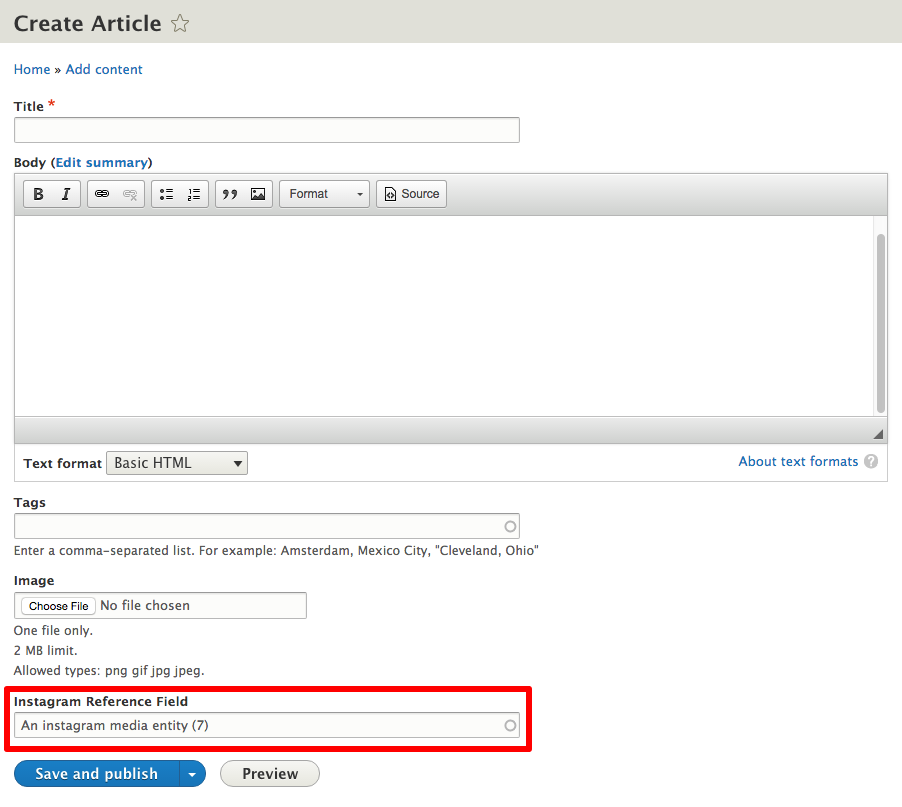
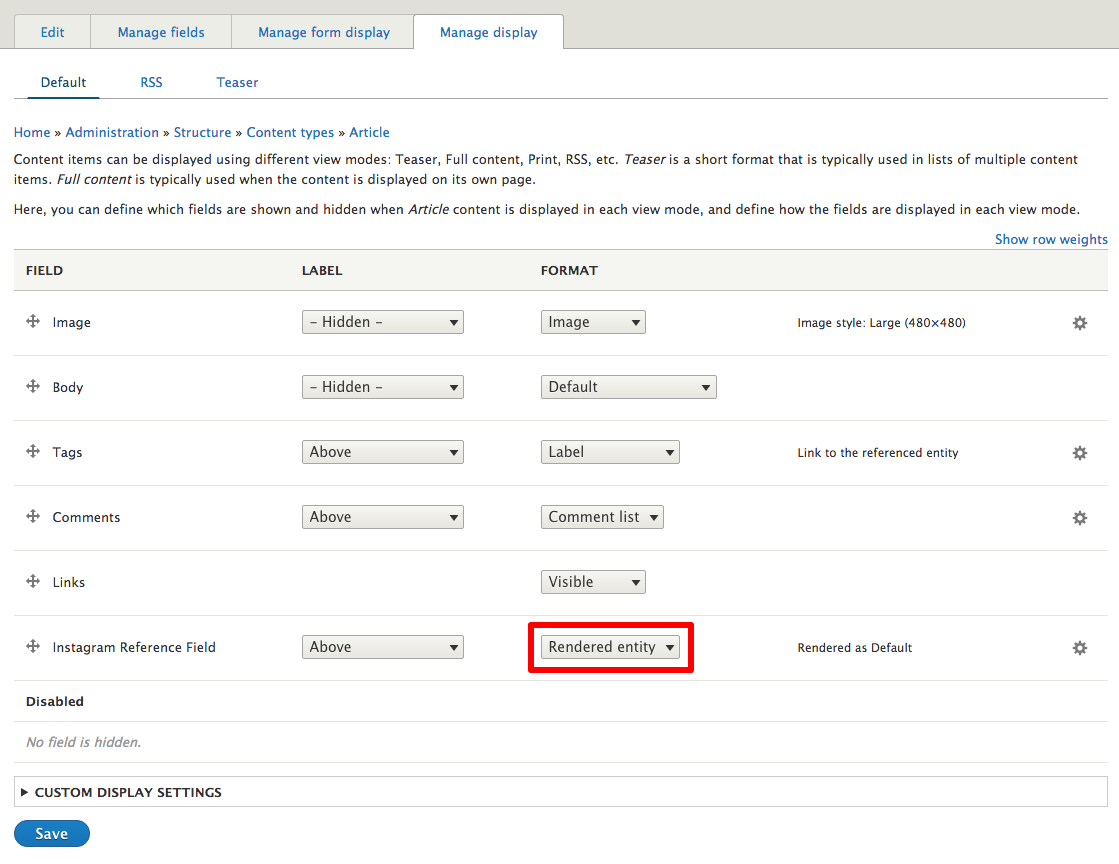
Updated Instagram.md and screenshots.

diff --git a/modules/media_entity/instagram.md b/modules/media_entity/instagram.md
@@ -34,42 +34,45 @@
   * Return to the bundle configuration and set "Field with source information" to use this new field.
 
     ![Step 6](images/instagram/step_6.png)
+  * On media bundles overview page choose **Manage display** on created **Instagram** bundle and select **Instagram embed** for the newly created field (*Instagram link* in our case) and then **Save**.
+
+    ![Step 7](images/instagram/step_7.png)
 3. Create a Media entity:
   * On `admin/content/media` click on **+ Add media**.
 
-    ![Step 7](images/instagram/step_7.png)
+    ![Step 8](images/instagram/step_8.png)
   * Fill *Media name*, *Instagram link* fields similarly as it is displayed below and click **Save**.
 
-    ![Step 8](images/instagram/step_8.png)
+    ![Step 9](images/instagram/step_9.png)
 
     **Note:** Validation will fail if incorrect Instagram URL is provided and this also works with embed codes and plaintext fields, not just link field.
   * The created Instagram media entity is saved.
 
-    ![Step 9](images/instagram/step_9.png)
+    ![Step 10](images/instagram/step_10.png)
 4. Add an entity (media) reference field on a content type:
   * On desired content type (i.e. Article), on `admin/structure/types`, click on **Manage fields**.
 
-    ![Step 10](images/instagram/step_10.png)
+    ![Step 11](images/instagram/step_11.png)
   * Click on **+ Add field**.
 
-    ![Step 11](images/instagram/step_11.png)
+    ![Step 12](images/instagram/step_12.png)
   * From **References** menu choose **Other**, fill the *Label* and click **Save and continue**.
 
-    ![Step 12](images/instagram/step_12.png)
+    ![Step 13](images/instagram/step_13.png)
   * Choose **Media** for **Type of item to reference** and click **Save field settings**.
 
-    ![Step 13](images/instagram/step_13.png)
+    ![Step 14](images/instagram/step_14.png)
   * Select **Instagram** bundle in **Reference type section** and click **Save settings**.
 
-    ![Step 14](images/instagram/step_14.png)
-5. Open Manage display of your content type (in our case *Article*):
-  * Select **Instagram embed** for the newly created field (*Entity media reference*) and then **Save**.
-
     ![Step 15](images/instagram/step_15.png)
+5. Open Manage display of your content type (in our case *Article*):
+  * Select **Rendered entity** for the newly created field (*Entity media reference*) and then **Save**.
+
+    ![Step 16](images/instagram/step_16.png)
 6. Create a new article with embedded Instagram post:
   * For an **Instagram reference** field choose a created entity Instagram entity.
 
-    ![Step 16](images/instagram/step_16.png)
+    ![Step 17](images/instagram/step_17.png)
   * The Instagram posts are displayed on the saved article page.
 
 ## Maintainers
